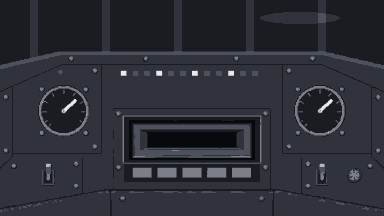
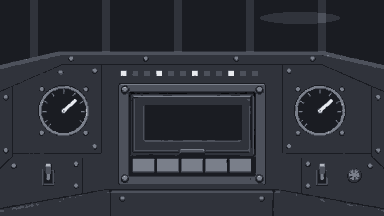
Give the intro's cassette a real cassette's shape
The cassette was 108x28, about four times as wide as it is tall; a compact cassette is
4 by 2.5 inches. It is now 88x55, with its face drawn after a photo of one: screws, a
label with a window across it showing both hubs, and the trapezoid along the bottom with
its openings. The cockpit art was edited for a taller deck with a door, and the cassette
shows through the door's window once it is in. The label holds 13 characters, so a long
title is cut at a word; the full title now shows with the level heading.

Claude-Session: https://claude.ai/code/session_01JHfHGCLy1xFvhSVxtBfjqe

diff --git a/packages/client/src/game/hangar.ts b/packages/client/src/game/hangar.ts
@@ -114,18 +114,30 @@ const WALK_FRAMES = 4;
 const CLIMB_FRAME = 4;
 
 // Where things are in cockpit.png.
-/** The deck's window, and its keys left to right: rewind, play, fast forward, stop, eject. */
-const KEY_LEFT = [133, 157, 182, 207, 232];
-const KEY_TOP = 167;
-const KEY_W = 19;
-const KEY_H = 11;
+/** The deck's keys, left to right: rewind, play, fast forward, stop, eject. */
+const KEY_LEFT = [133, 157, 182, 206, 230];
+const KEY_TOP = 158;
+const KEY_W = 21;
+const KEY_H = 14;
 const PLAY = 1;
-/** The cassette: its size, and where it sits in the deck's window. */
-const TAPE_W = 108;
-const TAPE_H = 28;
-const TAPE_AT = { x: 138, y: 125 };
-/** The label holds this many characters. */
-const LABEL_CHARS = 16;
+/** The window in the deck's door: once the door shuts, the tape shows only through it. */
+const DECK_WINDOW = new Rectangle(145, 105, 97, 35);
+/**
+ * The cassette, in a compact cassette's proportions (4 by 2.5 inches: Wikipedia, "Cassette
+ * tape"), as big as the deck's door allows, and where it sits behind the door.
+ */
+const TAPE_W = 88;
+const TAPE_H = 55;
+const TAPE_AT = { x: 149, y: 98 };
+/** The label's line holds this many characters. */
+export const LABEL_CHARS = 13;
+
+/** What fits on the cassette's label: the title up to the last word that fits. */
+export function labelText(title: string): string {
+  if (title.length <= LABEL_CHARS) return title;
+  const cut = title.lastIndexOf(' ', LABEL_CHARS);
+  return (cut > 0 ? title.slice(0, cut) : title.slice(0, LABEL_CHARS)).trimEnd();
+}
 
 // Anchors in the glove sprites (printed by tools/hangar-art.py).
 /** hand-grip.png: the cassette's right end, middle, sits here between fingers and thumb. */
@@ -180,13 +192,14 @@ export class HangarIntro {
   #outsideMask = new Graphics();
   #keys = new Graphics();
   #cassette = new Container();
+  #tapeMask = new Graphics();
   #reels = new Graphics();
   #grip: Sprite;
   #point: Sprite;
   #canopy = new Graphics();
   #label = new PixelText('', G1);
   #heading = new PixelText('', G6, 2);
-  #subhead = new PixelText('', G4);
+  #subhead = new PixelText('', G5);
   #credit = new PixelText('', G4);
   readonly #art: HangarArt;
 
@@ -199,13 +212,9 @@ export class HangarIntro {
 
     this.#outside = new Sprite(art.cockpit);
     this.#outside.mask = this.#outsideMask;
-    const body = new Graphics();
-    body.rect(0, 0, TAPE_W, TAPE_H).fill(G3).rect(1, 1, TAPE_W - 2, TAPE_H - 2).fill(G5);
-    body.rect(3, 2, TAPE_W - 6, 11).fill(G6);
-    body.rect(34, 16, 40, 9).fill(G1);
-    body.rect(6, TAPE_H - 2, TAPE_W - 12, 1).fill(G4);
-    this.#label.place(6, 3);
-    this.#cassette.addChild(body, this.#reels, this.#label);
+    this.#label.place(8, 8);
+    this.#cassette.addChild(drawCassette(), this.#reels, this.#label);
+    this.#tapeMask.rect(DECK_WINDOW.x, DECK_WINDOW.y, DECK_WINDOW.width, DECK_WINDOW.height).fill(0xffffff);
     this.#grip = new Sprite(art.grip);
     this.#point = new Sprite(art.point);
     this.#cockpit.addChild(
@@ -213,6 +222,7 @@ export class HangarIntro {
       this.#outsideMask,
       new Sprite(art.panel),
       this.#keys,
+      this.#tapeMask,
       this.#cassette,
       this.#grip,
       this.#point,
@@ -223,15 +233,18 @@ export class HangarIntro {
     this.container.addChild(this.#camera, this.#cockpit, this.#canopy);
   }
 
-  /** What the cassette label and the headings say. */
+  /**
+   * What the cassette's label and the headings say: the level, then the song's title (the
+   * label holds only part of a long one), then its credit and the difficulty.
+   */
   setSong(heading: string, title: string, credit: string, difficulty: string): void {
     this.#heading.text = heading;
     this.#heading.place(W / 2, 6, 'center');
-    this.#subhead.text = difficulty;
-    this.#subhead.place(W / 2, 38, 'center');
-    this.#label.text = title.length > LABEL_CHARS ? title.slice(0, LABEL_CHARS) : title;
-    this.#credit.text = credit;
-    this.#credit.place(W / 2, 27, 'center');
+    this.#subhead.text = title;
+    this.#subhead.place(W / 2, 27, 'center');
+    this.#label.text = labelText(title);
+    this.#credit.text = `${credit}  ${difficulty}`;
+    this.#credit.place(W / 2, 38, 'center');
   }
 
   /** Draws the intro at `ms` from its start. */
@@ -332,12 +345,16 @@ export class HangarIntro {
     const cy = Math.round(lerp(150, TAPE_AT.y, inP));
     this.#cassette.position.set(cx, cy);
     this.#cassette.visible = ms >= CASSETTE_IN;
+    // Pushed home, the door shuts on it: it shows through the door's window.
+    const home = ms >= INSERTED;
+    this.#cassette.mask = home ? this.#tapeMask : null;
+    this.#tapeMask.visible = home;
 
     // The reels turn once Play is down.
     const r = this.#reels;
     r.clear();
     const turning = ms >= PRESS_AT ? (ms - PRESS_AT) / 1000 : 0;
-    for (const rx of [28, 80]) drawReel(r, rx, 20, turning * Math.PI * 2 * 0.8);
+    for (const rx of HUB_X) drawReel(r, rx, HUB_Y, turning * Math.PI * 2 * 0.8);
 
     // The glove: holding the cassette's end, then away down to the right; then pointing,
     // over Play, and pressing it.
@@ -422,9 +439,49 @@ function drawKeys(g: Graphics, playDown: boolean): void {
   });
 }
 
+// The cassette's face, after a photo of one (Wikimedia Commons, "Goldstar compact cassette
+// DJ60 20090717.jpg"): screws in the corners and the bottom middle; a label with a line
+// to write on and a window across it showing both hubs, level with each other, at about a
+// quarter and three quarters of the width; and along the bottom, a raised trapezoid with
+// the openings for the heads and the capstans, and a tape guide in each corner.
+const HUB_X = [26, 62];
+const HUB_Y = 26;
+
+/** The cassette's shell and label, drawn once; the hubs turn on top of it. */
+function drawCassette(): Graphics {
+  const g = new Graphics();
+  const w = TAPE_W;
+  const h = TAPE_H;
+  g.roundRect(0, 0, w, h, 3).fill(G2);
+  g.roundRect(1, 1, w - 2, h - 2, 2).fill(G3);
+  // The label, its writing line, and the window across it.
+  g.rect(6, 4, w - 12, 33).fill(G6);
+  g.rect(8, 17, w - 16, 1).fill(G5);
+  g.rect(17, 19, 54, 15).fill(G1);
+  // The tape wound on each hub, more on the left at the start.
+  g.circle(HUB_X[0]!, HUB_Y, 7).fill(G2);
+  g.circle(HUB_X[1]!, HUB_Y, 5).fill(G2);
+  // The trapezoid along the bottom, its openings, and the tape across them.
+  g.poly([20, 39, w - 20, 39, w - 13, h - 1, 13, h - 1]).fill(G4);
+  for (const hx of [24, 34, 50, 60]) g.rect(hx, h - 7, 4, 5).fill(G1);
+  g.rect(14, h - 3, w - 28, 1).fill(G2);
+  g.circle(9, h - 6, 3).fill(G5).circle(9, h - 6, 1).fill(G2);
+  g.circle(w - 9, h - 6, 3).fill(G5).circle(w - 9, h - 6, 1).fill(G2);
+  // Screws.
+  for (const [sx, sy] of [
+    [3, 3],
+    [w - 4, 3],
+    [3, h - 4],
+    [w - 4, h - 4],
+    [w / 2 - 1, h - 6],
+  ] as const) {
+    g.rect(sx, sy, 2, 2).fill(G1);
+  }
+  return g;
+}
+
 /** A cassette reel hub at (x, y), turned `angle` radians. */
 function drawReel(g: Graphics, x: number, y: number, angle: number): void {
-  g.circle(x, y, 6).fill(G2);
   g.circle(x, y, 4).fill(G5);
   for (let k = 0; k < 6; k++) {
     const a = angle + (k / 6) * Math.PI * 2;

diff --git a/tools/screenshots/shots.ts b/tools/screenshots/shots.ts
@@ -158,10 +158,11 @@ export const shots: Shot[] = [
     alt:
       'Inside the cockpit, in shades of grey, in pixel art. Through the open canopy at the top, the dark ' +
       'hangar wall and its girders. Below, a riveted instrument panel: a row of small indicator lights, two ' +
-      'round gauges, two toggle switches, and in the middle a cassette deck with a dark window and five keys ' +
-      'marked rewind, play, fast forward, stop and eject. A padded grey glove on a dark sleeve reaches in ' +
-      'from the right, its fingers over the end of a light grey cassette labelled "Numen in Da Chip", which ' +
-      'is most of the way into the deck.',
+      'round gauges, a toggle switch, and in the middle a cassette deck: a door with a dark window, and ' +
+      'under it five keys marked rewind, play, fast forward, stop and eject. A padded grey glove on a dark ' +
+      'sleeve reaches in from the right holding a cassette by its end, most of the way into the door: a ' +
+      'dark shell with screws in its corners, a white label reading "Numen in Da" with a window across it ' +
+      'showing two hubs, and a raised strip along the bottom with small openings.',
     caption: 'The hangar intro: the cassette goes into the deck. Not used in the README.',
     usedIn: [],
   },
@@ -169,9 +170,10 @@ export const shots: Shot[] = [
     id: 'hangar-play',
     query: { scene: 'hangar', song: 'numenchip', difficulty: 'normal', t: '8.1' },
     alt:
-      'The cockpit with the cassette "Numen in Da Chip" in the deck window. Above the panel, "Level 1" in ' +
-      'large white pixel letters, "by JAM. Public Domain." and "Normal" in grey. The glove, coming in from ' +
-      'the bottom right, presses the Play key with its index finger, covering the keys to its right.',
+      'The cockpit with the cassette in the deck: through the door\'s window, its label reading "Numen in ' +
+      'Da" and its two hubs. Above the panel, "Level 1" in large white pixel letters, "Numen in Da Chip" in ' +
+      'light grey, and "by JAM. Public Domain.  Normal" in grey. The glove, coming in from the bottom ' +
+      'right, presses the Play key with its index finger, covering the keys to its right.',
     caption: 'The hangar intro: Play pressed. Not used in the README.',
     usedIn: [],
   },
@@ -183,9 +185,10 @@ export const shots: Shot[] = [
       'Eight seconds in shades of grey, in pixel art. A pilot in a white helmet walks across a hangar to a ' +
       'fighter with a needle nose and its canopy open, climbs the ladder as the view closes in on the ' +
       'cockpit, and drops into the seat until only the helmet shows. The view cuts to the instrument panel: ' +
-      'a gloved hand slides a cassette labelled "Numen in Da Chip" into the deck and pulls away, "Level 1", ' +
-      'the credit and "Normal" appear above the panel, and the hand comes back and presses Play, and the ' +
-      'cassette reels start to turn.',
+      'a gloved hand pushes a cassette labelled "Numen in Da" into the deck\'s door and pulls away, leaving ' +
+      'the label and hubs showing through the door\'s window; "Level 1", "Numen in Da Chip", the credit ' +
+      'and "Normal" appear above the panel, and the hand comes back and presses Play, and the hubs start ' +
+      'to turn.',
     caption: 'The hangar intro from the start to Play. Not used in the README.',
     usedIn: [],
   },

diff --git a/packages/client/test/hangar.test.ts b/packages/client/test/hangar.test.ts
@@ -1,6 +1,16 @@
 import { describe, expect, it } from 'vitest';
 import { EFFECTS } from '../src/audio/effects.ts';
-import { COCKPIT_AT, ColourFlood, FLOOD_ROWS, HANGAR_CUES, HOLD_AT, PLAY_AT, introTime } from '../src/game/hangar.ts';
+import {
+  COCKPIT_AT,
+  ColourFlood,
+  FLOOD_ROWS,
+  HANGAR_CUES,
+  HOLD_AT,
+  LABEL_CHARS,
+  PLAY_AT,
+  introTime,
+  labelText,
+} from '../src/game/hangar.ts';
 
 describe('hangar intro', () => {
   it('plays its sounds in time order, all before Play starts the run', () => {
@@ -20,6 +30,17 @@ describe('hangar intro', () => {
     expect(introTime(60_000, false)).toBe(HOLD_AT);
     expect(introTime(HOLD_AT + 50, true)).toBe(HOLD_AT + 50);
     expect(introTime(60_000, true)).toBe(PLAY_AT);
+  });
+});
+
+describe('labelText', () => {
+  it('keeps a title that fits, and cuts a long one at the last word that fits', () => {
+    expect(labelText('FastLane')).toBe('FastLane');
+    expect(labelText('Numen in Da Chip')).toBe('Numen in Da');
+    expect(labelText('Wrath_of_the_Djinn')).toBe('Wrath_of_the_');
+    for (const t of ['Numen in Da Chip', 'Wrath_of_the_Djinn', 'Girl From Mars']) {
+      expect(labelText(t).length).toBeLessThanOrEqual(LABEL_CHARS);
+    }
   });
 });
 

diff --git a/tools/hangar-art.py b/tools/hangar-art.py
@@ -12,7 +12,7 @@ Needs Python 3 and Pillow (pip install pillow). Run from the repository root:
 
 from pathlib import Path
 
-from PIL import Image
+from PIL import Image, ImageDraw
 
 ROOT = Path(__file__).resolve().parent.parent
 SRC = ROOT / "art" / "hangar"
@@ -92,9 +92,16 @@ def shield_edge(x: int) -> float:
     return SHIELD_Y
 
 
+# The cassette deck's window in cockpit.png (measured on it). The source draws a faint
+# cassette in it; the window is painted out empty, since the tape goes in during the intro.
+DECK_WINDOW = (145, 105, 241, 139)
+
+
 def backgrounds() -> None:
     for name in ("hangar", "cockpit"):
         img = snap(shrink(Image.open(SRC / f"{name}.webp"), SCREEN))
+        if name == "cockpit":
+            ImageDraw.Draw(img).rectangle(DECK_WINDOW, fill=(*GREY_RGB[1], 255))
         img.convert("RGB").save(OUT / f"{name}.png", optimize=True)
         print(f"{name}.png {img.size}")
     # The panel alone, clear above the glare shield, so the level can show through the

diff --git a/art/hangar/README.md b/art/hangar/README.md
@@ -20,13 +20,13 @@ images, so the art keeps the layout of the intro's first version, drawn in code:
 | File | Size | References | SHA-256 |
 |---|---|---|---|
[5 lines of base64/hex data omitted]
 
 The service keeps the outputs under these image IDs, for edits that should keep the same
 look: hangar `53efe46e-d99d-4086-928d-54b9e41f9dfa`, cockpit
-`741e9e43-7678-4d9e-a497-98b0e0739a01`, pilot `d72419b6-339e-41c6-9674-5a11c78f04e6`, hand
+`c5d3044b-f210-4013-856a-3a5fb0d982e5`, pilot `d72419b6-339e-41c6-9674-5a11c78f04e6`, hand
 `498fa574-af6f-4fe2-8e08-175df8e22e2b`.
 
 ## Prompts
@@ -57,7 +57,12 @@ look: hangar `53efe46e-d99d-4086-928d-54b9e41f9dfa`, cockpit
 >
 > Moody, quiet, film-noir lighting from the work lights.
 
-**`cockpit.webp`** (reference: `hangar-play`):
+**`cockpit.webp`** was made in two steps. The first cockpit (image ID
+`741e9e43-7678-4d9e-a497-98b0e0739a01`, reference: `hangar-play`) had a deck window too
+short for a cassette seen face-on (Brad, 2026-11-10), so it was edited with a second prompt,
+given after the first.
+
+First:
 
 > Retro 16-bit pixel art, strictly black and white (greyscale only, no colour), about
 > seven flat grey tones, hard pixel edges, no anti-aliasing, no gradients. Chunky pixels,
@@ -76,6 +81,32 @@ look: hangar `53efe46e-d99d-4086-928d-54b9e41f9dfa`, cockpit
 >
 > Keep the top quarter of the image fairly plain and dark, since titles will be drawn
 > there.
+
+Then, editing the first cockpit:
+
+> Edit this cockpit image. Keep everything exactly the same (the view out of the open
+> canopy, the glare shield, the row of indicator lights, both round gauges and their
+> positions, the rivets, seams and toggle switches, the colours and the pixel-art style,
+> strictly greyscale) except the cassette deck in the lower centre.
+>
+> Replace the cassette deck with a taller front-loading cassette deck, like a boombox or
+> home tape deck: a recessed housing with a tape door whose window is sized and shaped for
+> a standard compact cassette seen face-on. A compact cassette is 4 by 2.5 inches, so the
+> window must be about 1.6 times as wide as it is tall: about 27% of the image width wide
+> and about 32% of the image height tall, centred horizontally. Its top edge is a little
+> below the row of indicator lights (about 41% of the way down the image) and its bottom
+> edge about 73% of the way down. The window is empty and dark (no cassette inside).
+> Directly under the door, a single row of five plain rectangular piano-style keys of equal
+> size with no symbols on them, filling the deck's width, ending about 82% of the way down
+> the image. The deck housing frames the door and keys with a bevelled metal bezel and four
+> rivets.
+>
+> Retro 16-bit pixel art, hard pixel edges, no anti-aliasing, no gradients, no text or
+> labels anywhere, no hands, no people.
+
+The result has a door about twice as wide as it is tall, with a window showing the middle
+of a tape, as a deck's door does, rather than the 1.6:1 window asked for, and it drew a
+faint cassette in the window; `tools/hangar-art.py` paints that out.
 
 **`pilot.webp`** (reference: `hangar-walk`; transparent background):
 

diff --git a/docs/DEVELOPMENT.md b/docs/DEVELOPMENT.md
@@ -935,8 +935,9 @@ Run `pnpm dev` and open the URL it prints.
 - **Hangar intro** (`hangar.ts`, Brad, 2026-11-10): before level 1 of each run started with
   Play, in black and white (see "Hangar intro art" below). The captain walks across the
   hangar, climbs the ladder into the fighter, and the camera closes in (0 to 5.2 s); in the
-  cockpit a gloved hand pushes a cassette labelled with level 1's song into the deck, the
-  level number, credit and difficulty show, and the hand presses Play (8.15 s), which
+  cockpit a gloved hand pushes a cassette labelled with level 1's song into the deck's door
+  (after that it shows through the door's window), the level number, the song's title,
+  credit and difficulty show, and the hand presses Play (8.15 s), which
   starts the run with the song at 0. While the level is still loading, the hand waits over
   Play (`introTime`). The run starts with the canopy frame coming down over the window,
   the level showing through the glass, then the cockpit dropping out of view (`drawWipe`,
@@ -1021,15 +1022,20 @@ The hangar with the fighter, the cockpit, the captain, and the glove are generat
 (Brad, 2026-11-10): `art/hangar/README.md` has the model, the prompts, the references
 (the first version's frames, and the player ship's sprite so the fighter has its shape),
 and the files' hashes. The cassette, the symbols on the deck's keys, the canopy frame, and
-the text are drawn in code.
+the text are drawn in code. The cassette has a compact cassette's proportions, 4 by 2.5
+inches (Wikipedia, "Cassette tape"), at 88x55 px, the most the deck's door holds, and its
+face follows a photo of one (the comment on `drawCassette()` names it). Its label holds 13
+characters, so `labelText()` cuts a longer title at a word; the full title shows with the
+level heading.
 
 `python3 tools/hangar-art.py` makes the game's copies in
 `packages/client/src/game/hangar-art/`: it box-filters each source to the 384x216 grid
 (the captain to 28 px tall, the glove to 0.4 of its source), snaps every pixel to the
 intro's seven greys and its alpha to on or off, cuts the captain's sheet into frames
 (`pilot.png`: four of the walk, then two of the climb, 12x33 each, feet at the bottom
-centre; `pilot-seated.png`), cuts the cockpit's panel away from the view out of the canopy
-along the glare shield (`cockpit-panel.png`), and prints the glove's anchor points.
+centre; `pilot-seated.png`), paints out the faint cassette the source drew in the deck's
+empty window, cuts the cockpit's panel away from the view out of the canopy along the
+glare shield (`cockpit-panel.png`), and prints the glove's anchor points.
 `hangar.ts` has the positions measured on these files (the ladder, the cockpit opening,
 the deck's window and keys) and the anchors; rebuilding the art from new sources means
 measuring them again. `loadHangarArt()` loads the PNGs once; `Game` starts it at start-up
